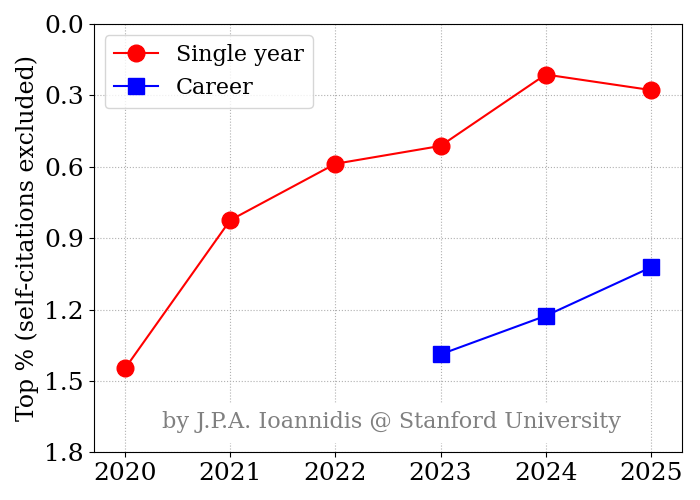
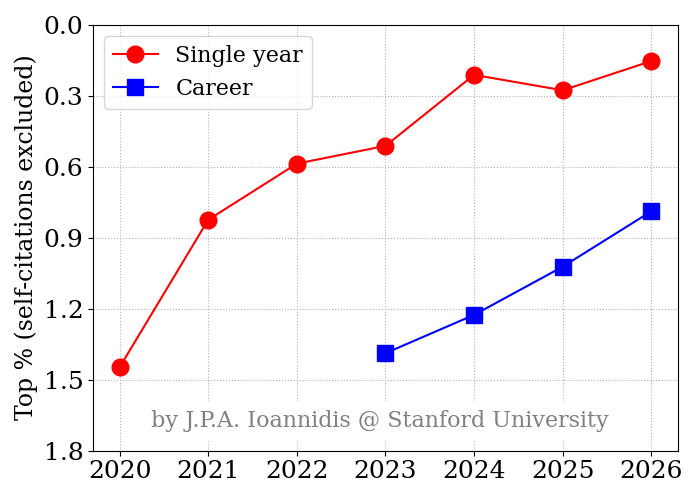
m

diff --git a/about/about.md b/about/about.md
@@ -29,7 +29,7 @@ University](http://www.pku.edu.cn/), Beijing China.
 - Committee Member of the [Division of Gravitation and Relativistic Astrophysics](http://www.cps-net.org.cn/News/Content/show/id/5325.do), CPS
 - [2020 Breakthrough Prize in Fundamental
   Physics](https://friendshao.github.io/docs/breakthrough_Certificate_2020.pdf) awarded to the EHTC (shared by 347 members)
-- World's Top 2% Scientists [2020-2025](top2.png) ([data](https://elsevier.digitalcommonsdata.com/datasets/btchxktzyw/8))
+- World's Top 2% Scientists [2020-2026](top2.png) ([data](https://elsevier.digitalcommonsdata.com/datasets/btchxktzyw/9))
 
 
 <img style="float: right;" src="../whatsmore/schedule.png" width="48%">
